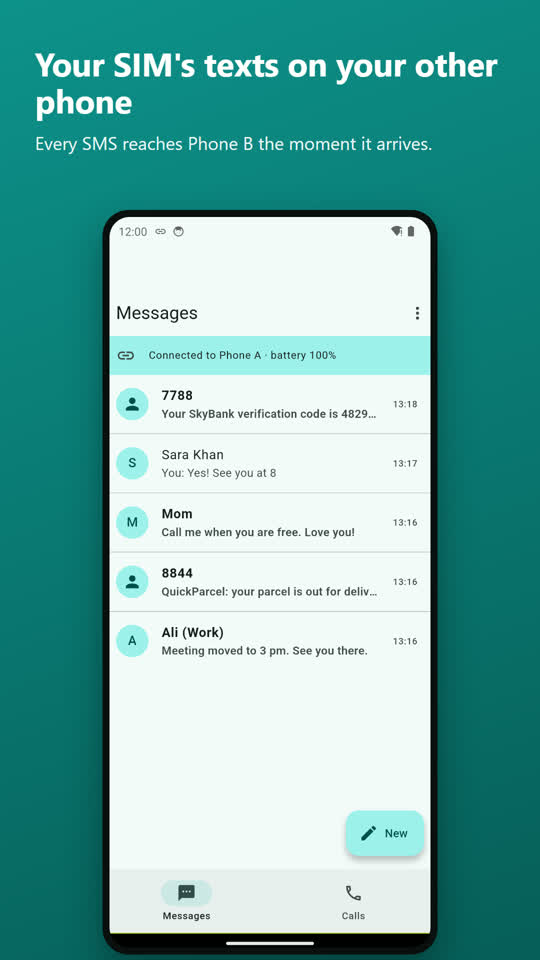
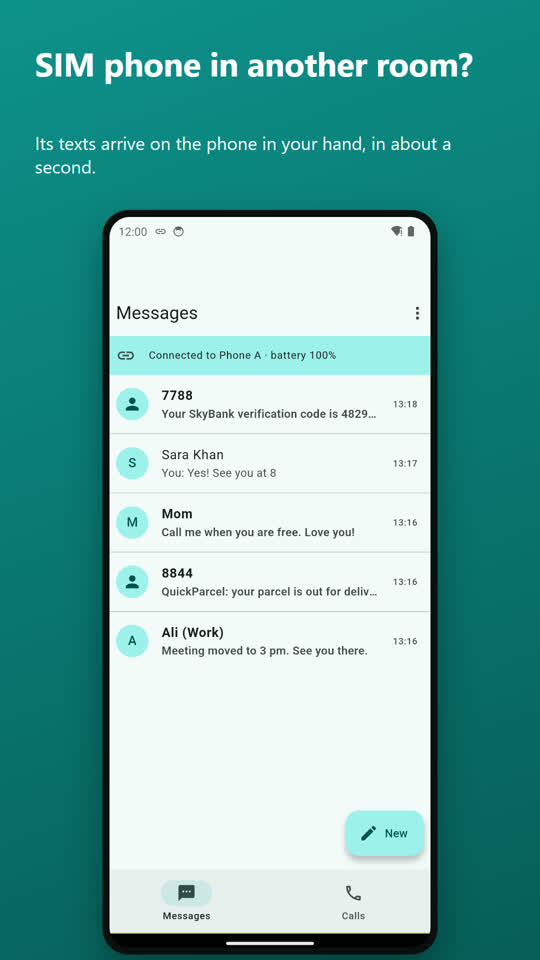
Landing page: problem section, new feature graphic and video

Changed region(s): [[0.0593, 0.0312, 0.9185, 0.1875]]

diff --git a/index.html b/index.html
@@ -6,7 +6,7 @@
 <title>Dual Link</title>
 <meta name="description" content="Texts and calls from your SIM phone, on your other phone. Over your own Wi-Fi, end-to-end encrypted, no servers.">
 <meta property="og:title" content="Dual Link">
-<meta property="og:description" content="Texts and calls from your SIM phone, on your other phone.">
+<meta property="og:description" content="Never miss texts, OTP codes or calls from your SIM phone again.">
 <meta property="og:image" content="https://ali1111111111.github.io/dual-link-site/feature.png">
 <link rel="icon" href="icon.png">
 <style>
@@ -55,14 +55,24 @@ footer{color:var(--muted);font-size:14px;padding:36px 0;border-top:1px solid var
 
 <div class="hero">
   <div>
-    <h1>Texts and calls from your SIM phone, on your other phone.</h1>
-    <p>Leave the phone with your SIM at home. Read, reply and see calls on the phone you actually carry.</p>
+    <h1>Never miss texts, OTPs or calls from your SIM phone again.</h1>
+    <p>Your SIM is in one phone, but you're holding another. Dual Link brings its texts, bank codes and calls to the phone in your hand.</p>
     <div class="chips"><span>Same Wi-Fi</span><span>End-to-end encrypted</span><span>No servers</span><span>Open source</span></div>
     <a class="btn pri" href="#test">Join the test on Google Play</a>
     <a class="btn sec" href="https://github.com/ALI1111111111/dual-link">View on GitHub</a>
   </div>
   <img class="shot" src="img/01-messages.jpg" alt="Dual Link messages screen">
 </div>
+
+<section>
+<h2>Sound familiar?</h2>
+<div class="grid">
+  <div class="card"><h3>Missed an OTP</h3><p>Your bank code arrived on the phone in the other room, and the login timed out.</p></div>
+  <div class="card"><h3>Missed a call</h3><p>The SIM phone was charging out of reach when someone important called.</p></div>
+  <div class="card"><h3>Two phones, all day</h3><p>Work and personal, old and new: you keep checking both.</p></div>
+  <div class="card"><h3>Your SIM is stuck</h3><p>A SIM works in one phone at a time. Call forwarding doesn't move texts, and carriers can't forward OTPs.</p></div>
+</div>
+</section>
 
 <section>
 <h2>How it works</h2>
@@ -87,7 +97,7 @@ footer{color:var(--muted);font-size:14px;padding:36px 0;border-top:1px solid var
 <section>
 <h2>See it in action</h2>
 <div class="vids">
-  <iframe src="https://www.youtube-nocookie.com/embed/5dDzYh4ltAI" title="Dual Link promo" loading="lazy" allowfullscreen></iframe>
+  <iframe src="https://www.youtube-nocookie.com/embed/0-UP4yRT_ms" title="Never miss OTPs, texts or calls" loading="lazy" allowfullscreen></iframe>
   <iframe src="https://www.youtube-nocookie.com/embed/RPbOyae_HIw" title="Dual Link walkthrough" loading="lazy" allowfullscreen></iframe>
 </div>
 </section>
